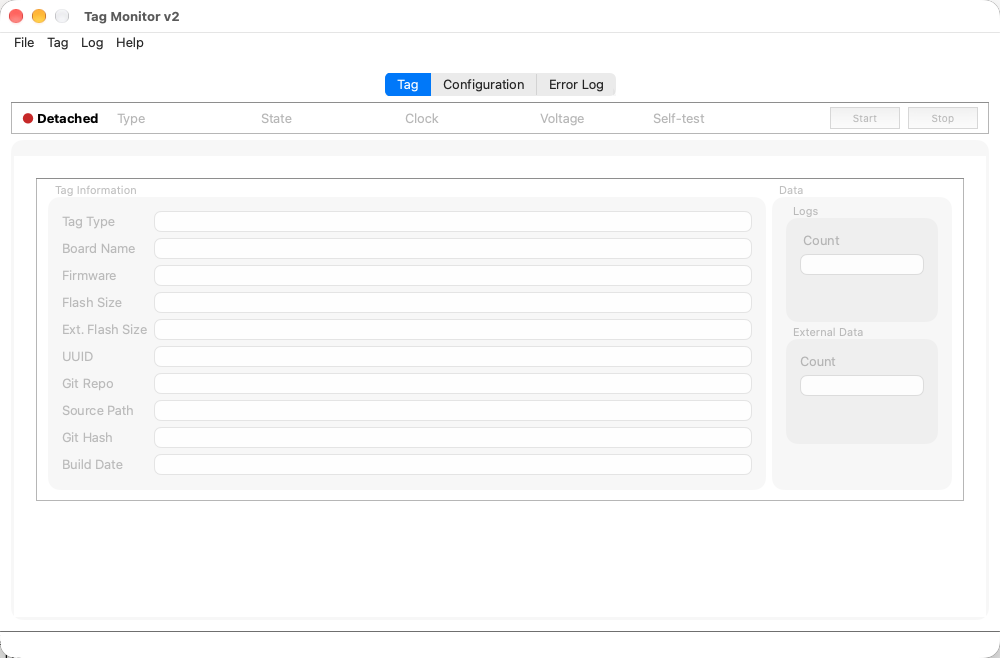
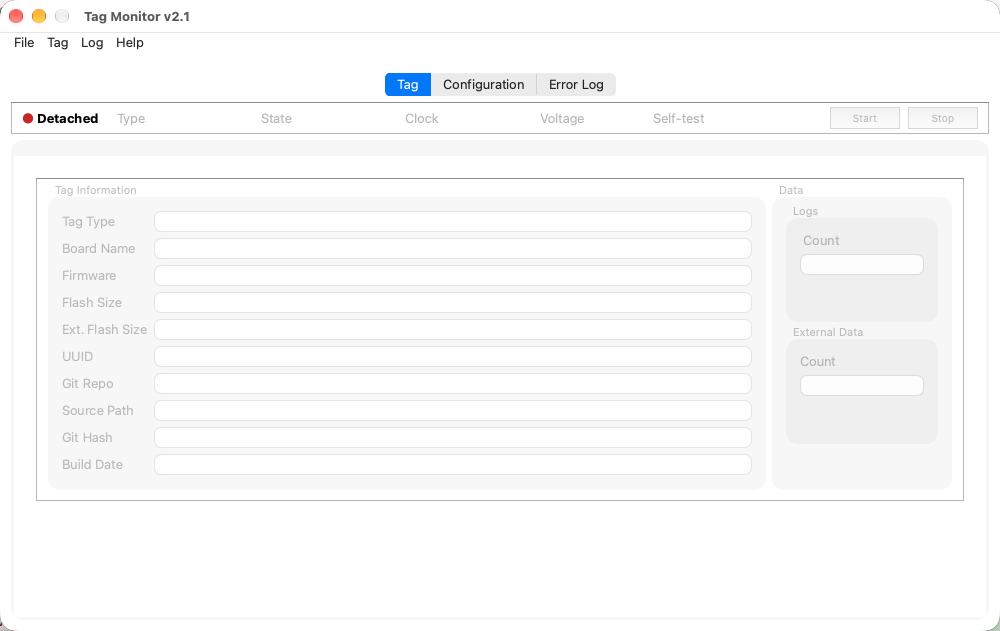
qtmonitor 2.1; drop the empty status bar
- version 2.1, shown in the title and About: menus, the status strip and
  Help.
- The QStatusBar is hidden. It only carried hover text for menu items,
  which the tooltips already show. Empty, it drew a strip at the bottom
  that did not look like part of the window.

Screenshots regenerated. The action-state table is unchanged.

diff --git a/host/applications/qtmon/mainwindow.cpp b/host/applications/qtmon/mainwindow.cpp
@@ -116,6 +116,9 @@ MainWindow::MainWindow(const MainWindowOptions &options, QWidget *parent)
   placeStatusStripBelowTabs();
   createMenus();
   ui.mainToolBar->hide();  // no toolbar actions yet
+  // Its only use was hover text for menu items, which the tooltips carry; an
+  // empty bar reads as a strip that is not part of the window.
+  ui.statusBar->hide();
   // Spare height on the Tag page goes below its groups, not between rows.
   qobject_cast<QBoxLayout *>(ui.widget_3->layout())->addStretch(1);
   screenshotDir = resolveScreenshotDir(options.screenshotDir);
@@ -524,7 +527,6 @@ void MainWindow::createActions()
   auto make = [this](const QString &text, const QString &tip, auto slot) {
     auto *action = new QAction(text, this);
     action->setToolTip(tip);
-    action->setStatusTip(tip);
     connect(action, &QAction::triggered, this, slot);
     return action;
   };

diff --git a/host/applications/qtmon/mainwindow.h b/host/applications/qtmon/mainwindow.h
@@ -177,7 +177,8 @@ private:
   Ui::MainWindow ui;
   QTimer timer;
   TagState current_state = STATE_UNSPECIFIED;
-  const float version = 2.0;
+  /// Shown in the title and About. 2.1: menus, the status strip, Help.
+  const float version = 2.1f;
   int external_flash_size = 0;
   int sector_size = 4096;
   QString tag_debug_line_buffer;
